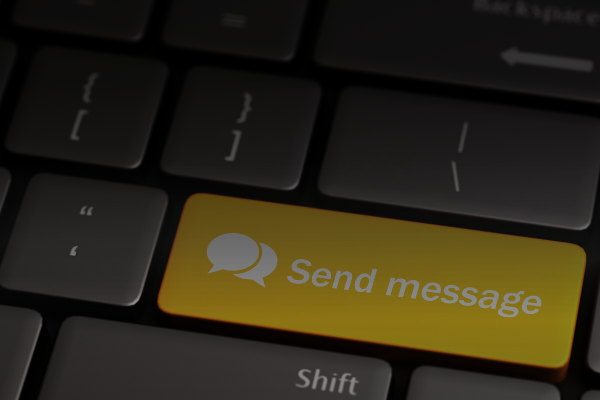
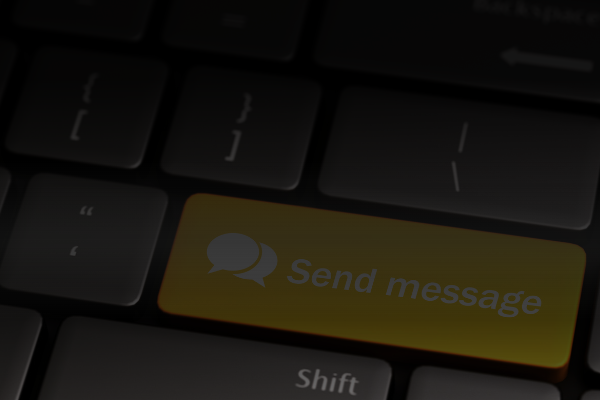
update bg again twice

diff --git a/styles/_large-monitors.scss b/styles/_large-monitors.scss
@@ -414,7 +414,9 @@
                 width: 50%;
                 text-align: left;
                 padding: 8em 5em 8em 29em;
-                background-image: url('https://raw.githubusercontent.com/SkymanS0n/portfolio-jerico-eijansantos/main/images/send-message.png');
+                background-image: url('https://raw.githubusercontent.com/SkymanS0n/portfolio-jerico-eijansantos/main/images/send-message1.png');
+                background-position: center;
+                background-size: cover;
                 h3 {
                     display: none;
                     font-size: $h3;

diff --git a/styles/style.css b/styles/style.css
@@ -2293,7 +2293,9 @@ html {
     width: 50%;
     text-align: left;
     padding: 8em 5em 8em 29em;
-    background-image: url("https://raw.githubusercontent.com/SkymanS0n/portfolio-jerico-eijansantos/main/images/send-message.png");
+    background-image: url("https://raw.githubusercontent.com/SkymanS0n/portfolio-jerico-eijansantos/main/images/send-message1.png");
+    background-position: center;
+    background-size: cover;
   }
   #contact.contact .contact-container .contact-me h3 {
     display: none;
